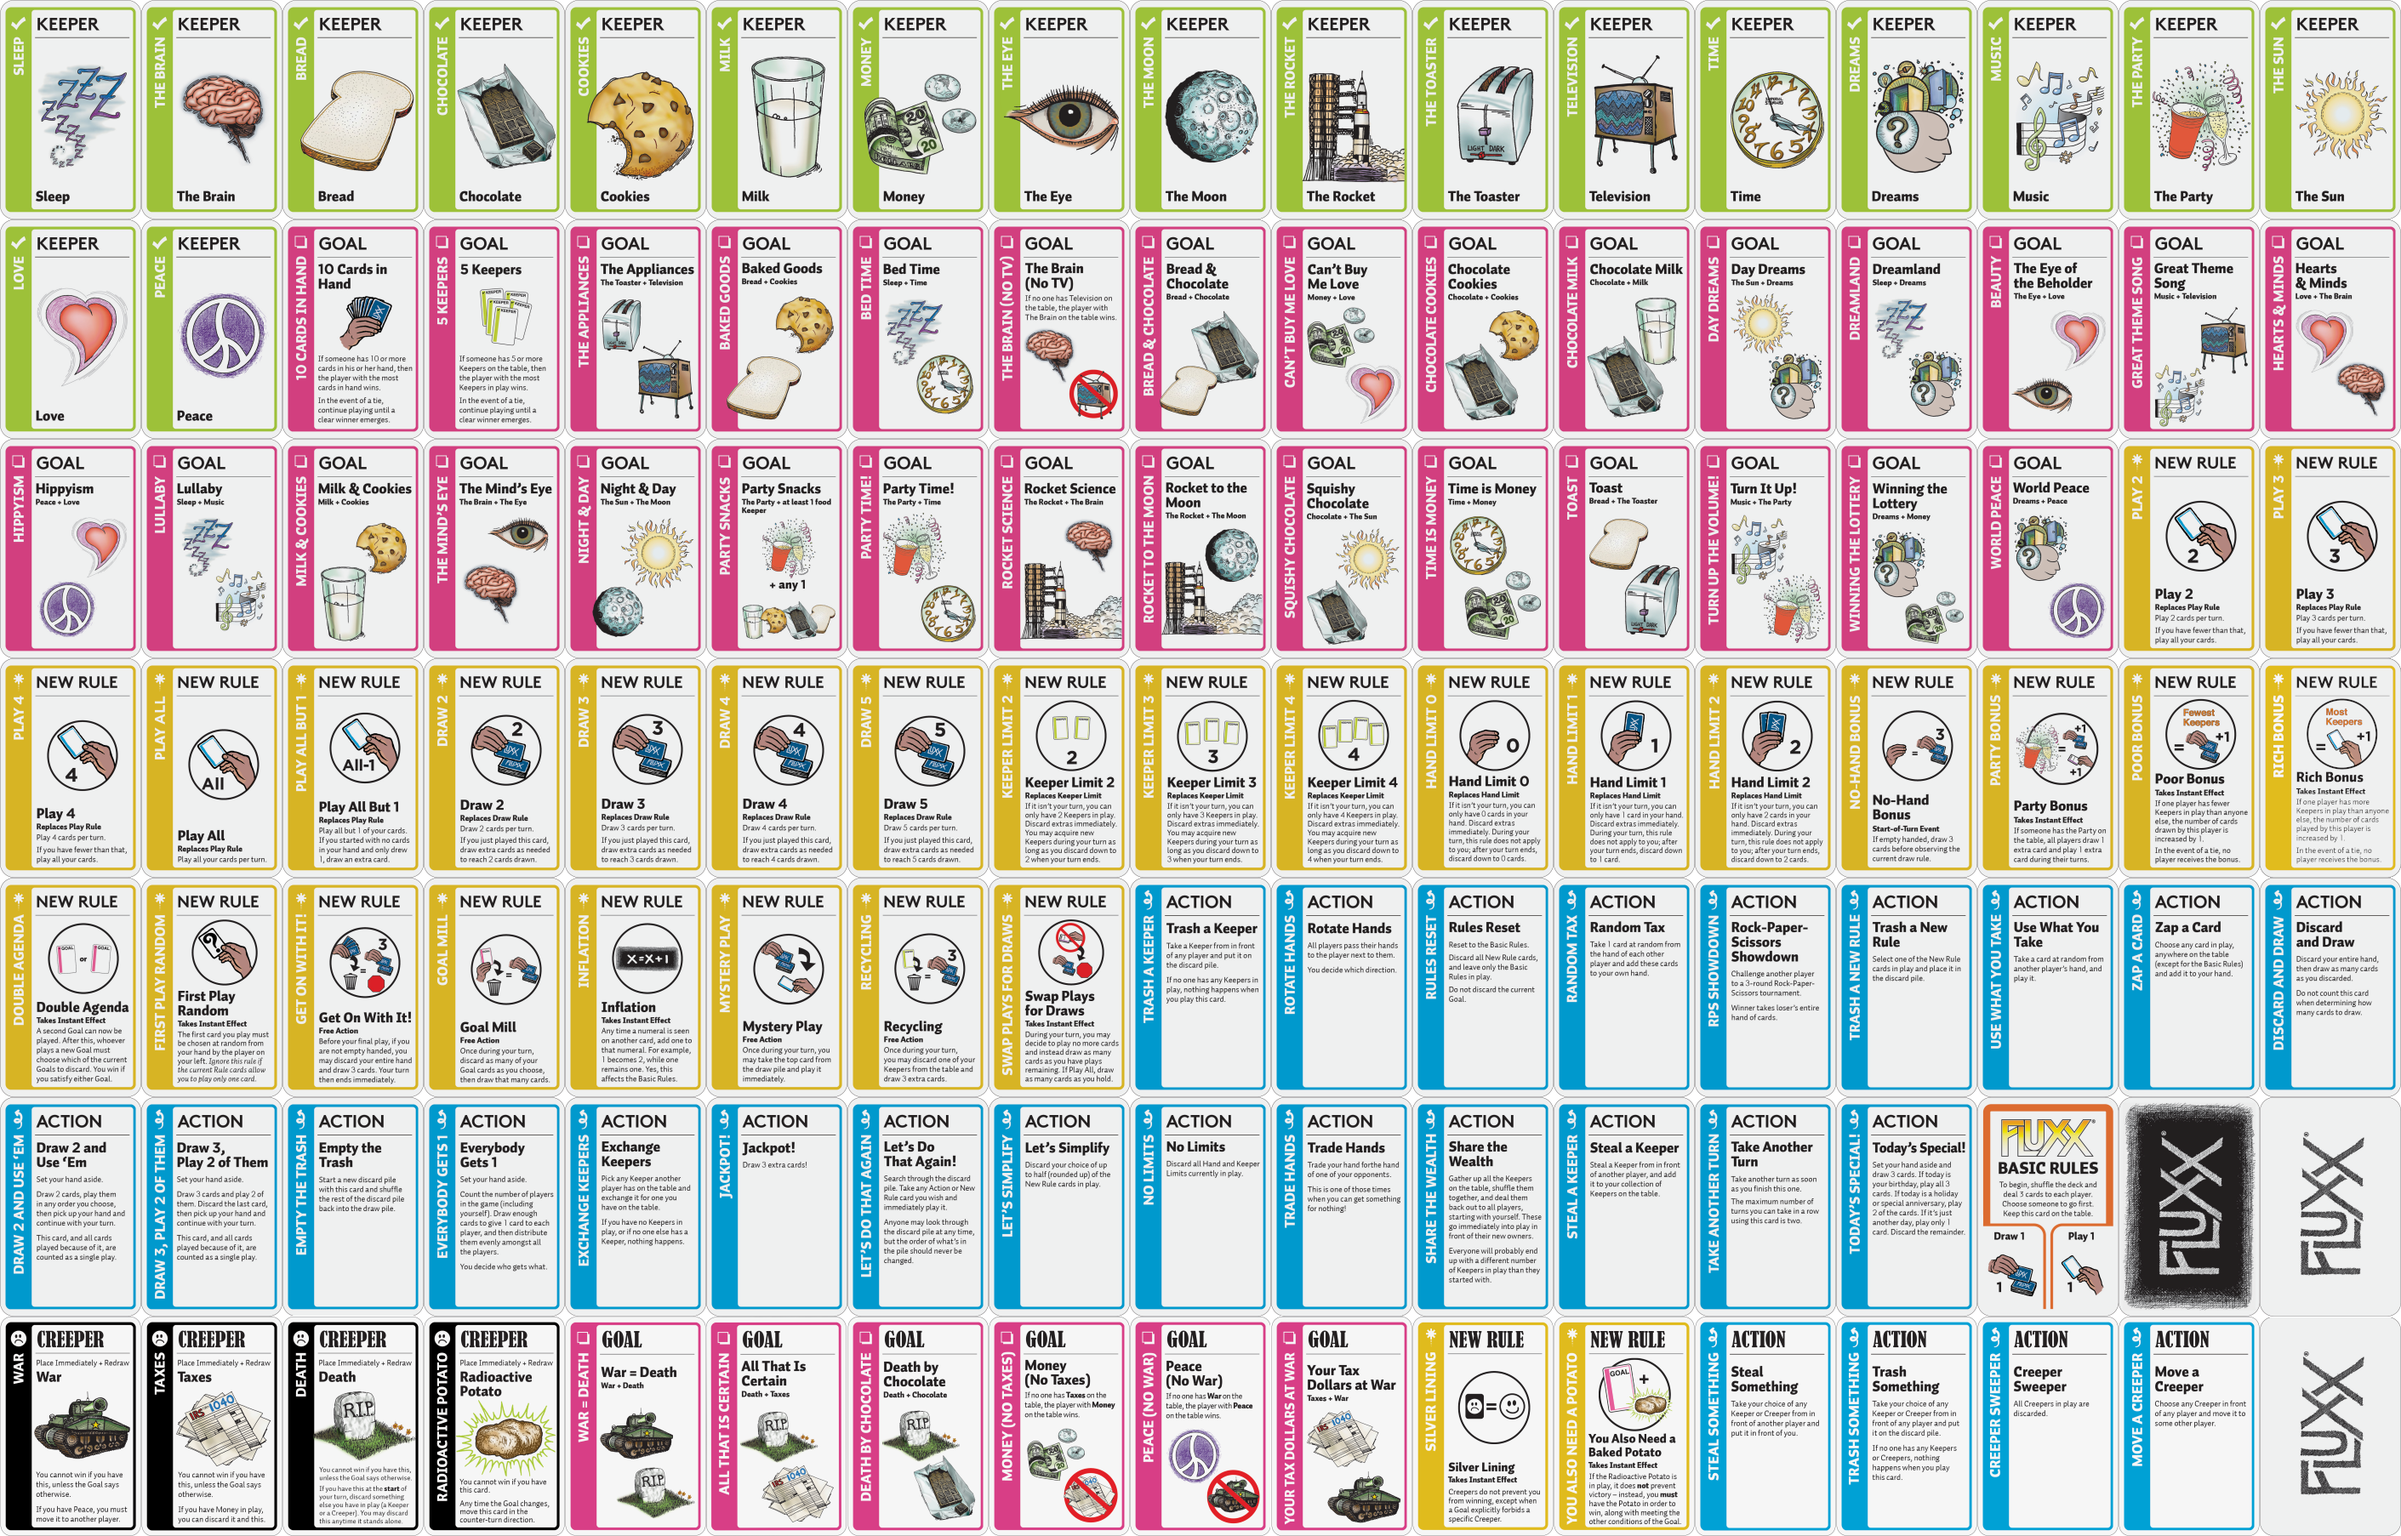
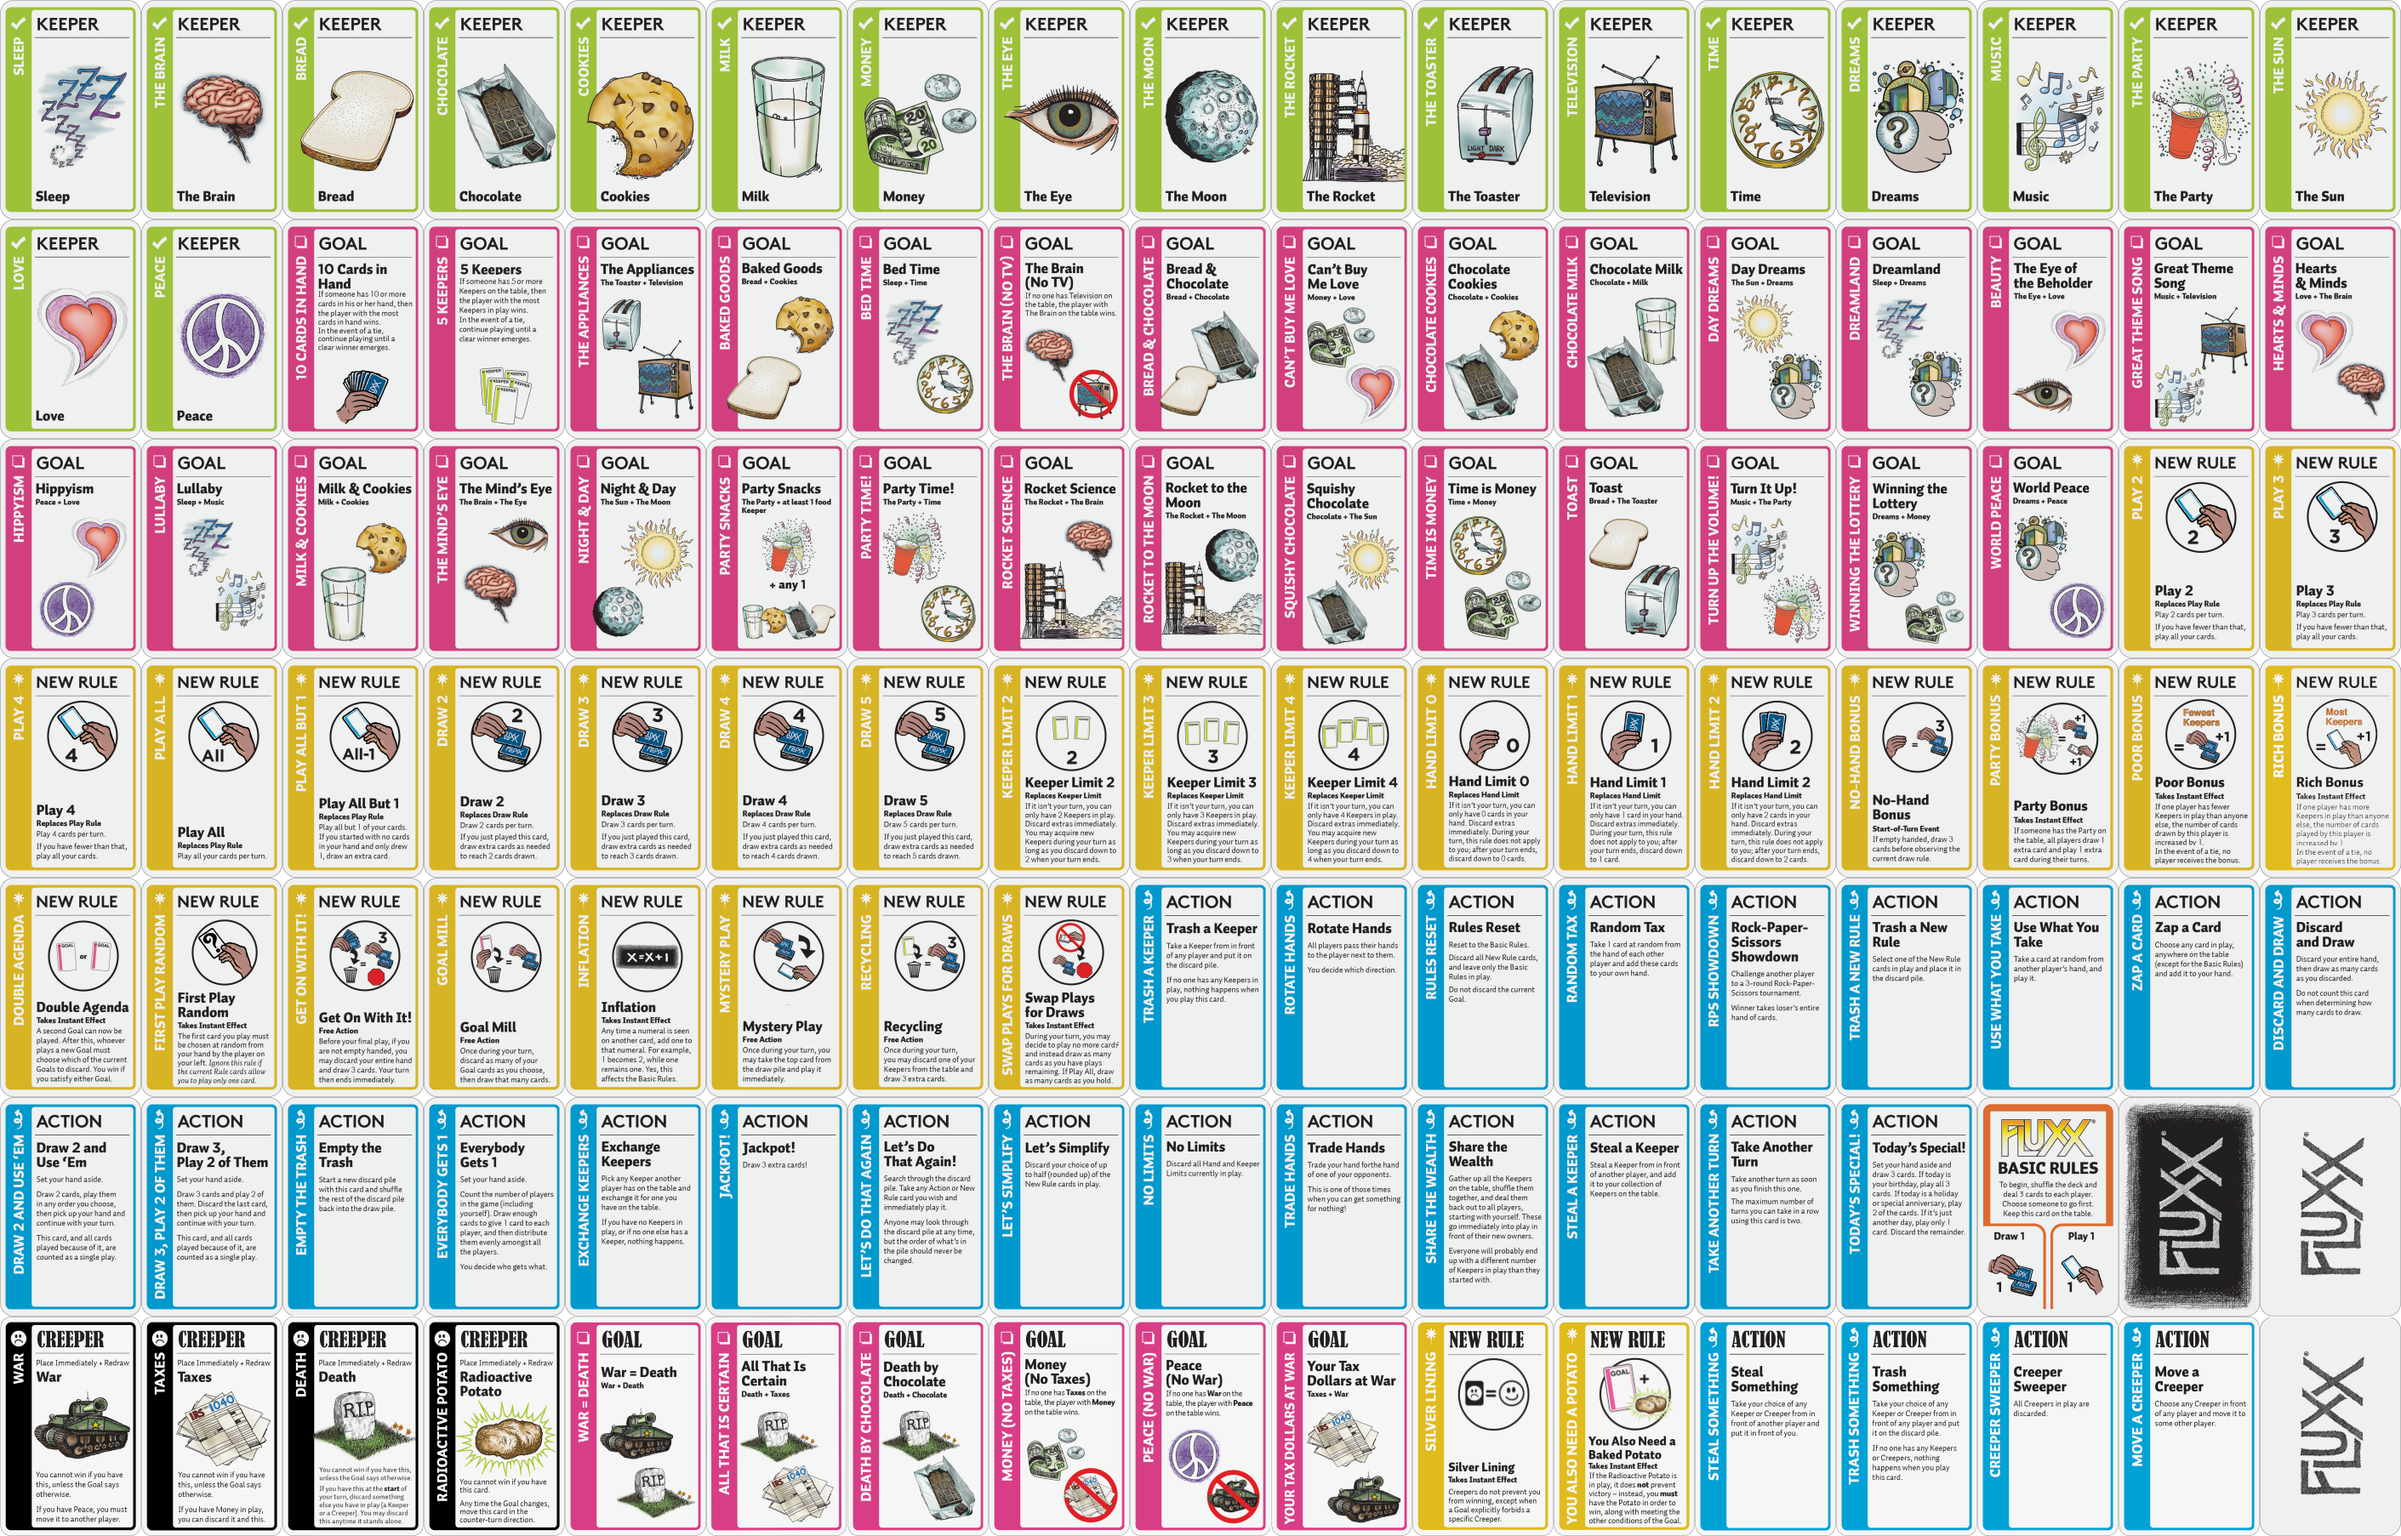
try to make it all look decent

diff --git a/modules/css/_cards.scss b/modules/css/_cards.scss
@@ -1,13 +1,13 @@
 $font-stack-default: "Helvetica Neue",Helvetica;
 $font-stack-title-base: Brown,Futura,sans-serif;
-$font-stack-title-creepers: "Bernard MT Condensed",Futura;
+$font-stack-title-creepers: "Bernard MT Condensed",Impact;
 $card-height: 258px;
 $card-width: 166px;
 $card-height-title: 28px;
 $card-margin-left: 41px;
 $card-margin-right: 10px;
-$card-margin-top: ($card-height/16);
-$card-margin-bottom: ($card-height/16);
+$card-margin-top: 16px;
+$card-margin-bottom: 14px;
 $card-width-inner: $card-width - $card-margin-left - $card-margin-right;
 $card-height-inner: $card-height - $card-height-title - $card-margin-top - $card-margin-bottom;
 $color-cardwhite: #EFF0F0;
@@ -81,11 +81,11 @@ $color-rule: #D7B424;
   }
 }
 
-.flx-card-title {
+.flx-card-title-base {
   font-family: $font-stack-title-base;
 }
-.flx-card-title-creeper {
-  font-family: font-stack-title-creepers;
+.flx-card-title-creeperpack {
+  font-family: $font-stack-title-creepers;
 }
 
 .card-overlay-title {
@@ -143,7 +143,7 @@ $color-rule: #D7B424;
 
 .flx-card-action {
   .card-overlay {
-    height: $card-height-inner;
+    height: $card-height-inner - 5px;
   } 
   .card-name {
     margin-top: 5px;    
@@ -164,9 +164,9 @@ $color-rule: #D7B424;
 
 .flx-card-rule {
   .card-overlay {
-    height: $card-height-inner / 2;
+    height: $card-height-inner * 0.55;
   }  
   .card-name {
-    margin-top: $card-height-inner / 2;    
+    margin-top: $card-height-inner * 0.45;
   }
 }

diff --git a/fluxx.css b/fluxx.css
@@ -270,12 +270,12 @@
   color: #D7B424;
 }
 
-.flx-card-title {
+.flx-card-title-base {
   font-family: Brown, Futura, sans-serif;
 }
 
-.flx-card-title-creeper {
-  font-family: font-stack-title-creepers;
+.flx-card-title-creeperpack {
+  font-family: "Bernard MT Condensed", Impact;
 }
 
 .card-overlay-title {
@@ -291,7 +291,7 @@
   font-weight: bold;
   font-size: 20px;
   text-transform: uppercase;
-  margin-top: 16.125px;
+  margin-top: 16px;
 }
 
 .flx-card {
@@ -331,7 +331,7 @@
 }
 
 .flx-card-action .card-overlay {
-  height: 197.75px;
+  height: 195px;
 }
 
 .flx-card-action .card-name {
@@ -343,14 +343,14 @@
 }
 
 .flx-card-keeper .card-name {
-  margin-top: 177.75px;
+  margin-top: 180px;
 }
 
 .flx-card-rule .card-overlay {
-  height: 98.875px;
+  height: 110px;
 }
 
 .flx-card-rule .card-name {
-  margin-top: 98.875px;
+  margin-top: 90px;
 }
 /*# sourceMappingURL=fluxx.css.map */

diff --git a/fluxx.js b/fluxx.js
@@ -477,6 +477,7 @@ define([
         var cardDefinition = this.cardsDefinitions[card_type_id];
 
         var card = {
+          set: cardDefinition.set,
           name: cardDefinition.name,
           subtitle: cardDefinition.subtitle || "",
           description: cardDefinition.description || "",

diff --git a/modules/php/Cards/Card.php b/modules/php/Cards/Card.php
@@ -10,6 +10,7 @@ abstract class Card extends \APP_GameClass
   {
     $this->cardId = $cardId;
     $this->uniqueId = $uniqueId;
+    $this->set = "base";
     $this->name = clienttranslate("Not Implemented");
     $this->subtitle = null;
     $this->description = null;
@@ -31,6 +32,10 @@ abstract class Card extends \APP_GameClass
   public function getUniqueId()
   {
     return $this->uniqueId;
+  }
+  public function getCardSet()
+  {
+    return $this->set;
   }
   public function getName()
   {

diff --git a/modules/php/Cards/Actions/ActionEverybodyGets1.php b/modules/php/Cards/Actions/ActionEverybodyGets1.php
@@ -9,7 +9,7 @@ class ActionEverybodyGets1 extends ActionCard
   {
     parent::__construct($cardId, $uniqueId);
 
-    $this->name = clienttranslate("Everybody gets 1");
+    $this->name = clienttranslate("Everybody Gets 1");
     $this->description = clienttranslate(
       "Set your hand aside. Count the number of players in the game (including yourself). Draw enough cards to give 1 to each player, and then distribute them evenly amongst all the players. You decide who gets what."
     );

diff --git a/modules/php/Cards/Actions/ActionTrashSomething.php b/modules/php/Cards/Actions/ActionTrashSomething.php
@@ -10,6 +10,7 @@ class ActionTrashSomething extends ActionCard
   {
     parent::__construct($cardId, $uniqueId);
 
+    $this->set = "creeperpack";
     $this->name = clienttranslate("Trash Something");
     $this->description = clienttranslate(
       "Take your choice of any Keeper or Creeper from in front of any player and put it on the discard pile. If no one has any Keepers or Creepers, nothing happens when you play this card."

diff --git a/modules/php/Cards/Actions/ActionStealSomething.php b/modules/php/Cards/Actions/ActionStealSomething.php
@@ -10,6 +10,7 @@ class ActionStealSomething extends ActionCard
   {
     parent::__construct($cardId, $uniqueId);
 
+    $this->set = "creeperpack";
     $this->name = clienttranslate("Steal Something");
     $this->description = clienttranslate(
       "Take your choice of any Keeper or Creeper from in front of another player and put it in front of you."

diff --git a/modules/php/Cards/Rules/RuleCardFactory.php b/modules/php/Cards/Rules/RuleCardFactory.php
@@ -33,6 +33,7 @@ class RuleCardFactory extends CardFactory
       $ruleDefinitions[$definitionId] = [
         "type" => "rule",
         "ruleType" => $card->getRuleType(),
+        "set" => $card->getCardSet(),
         "name" => $card->getName(),
         "subtitle" => $card->getSubtitle(),
         "description" => $card->getDescription(),

diff --git a/modules/php/Cards/Actions/ActionMoveACreeper.php b/modules/php/Cards/Actions/ActionMoveACreeper.php
@@ -10,6 +10,7 @@ class ActionMoveACreeper extends ActionCard
   {
     parent::__construct($cardId, $uniqueId);
 
+    $this->set = "creeperpack";
     $this->name = clienttranslate("Move a Creeper");
     $this->description = clienttranslate(
       "Choose any Creeper in front of any player and move it to some other player."

diff --git a/modules/php/Cards/Rules/RuleYouAlsoNeedABakedPotato.php b/modules/php/Cards/Rules/RuleYouAlsoNeedABakedPotato.php
@@ -9,6 +9,7 @@ class RuleYouAlsoNeedABakedPotato extends RuleCard
   {
     parent::__construct($cardId, $uniqueId);
 
+    $this->set = "creeperpack";
     $this->name = clienttranslate("You Also Need a Baked Potato");
     $this->subtitle = clienttranslate("Takes Instant Effect");
     $this->description = clienttranslate(

diff --git a/modules/php/Cards/Creepers/CreeperCardFactory.php b/modules/php/Cards/Creepers/CreeperCardFactory.php
@@ -24,6 +24,7 @@ class CreeperCardFactory extends CardFactory
 
         $creeperDefinitions[$definitionId] = [
           "type" => "creeper",
+          "set" => $card->getCardSet(),
           "name" => $card->getName(),
           "subtitle" => $card->getSubtitle(),
           "description" => $card->getDescription(),

diff --git a/modules/php/Cards/Goals/GoalMoneyNoTaxes.php b/modules/php/Cards/Goals/GoalMoneyNoTaxes.php
@@ -9,6 +9,7 @@ class GoalMoneyNoTaxes extends GoalCard
   {
     parent::__construct($cardId, $uniqueId);
 
+    $this->set = "creeperpack";
     $this->name = clienttranslate("Money (No Taxes)");
     $this->description = clienttranslate(
       "If no one has Taxes on the table, the player with Money on the table wins."
